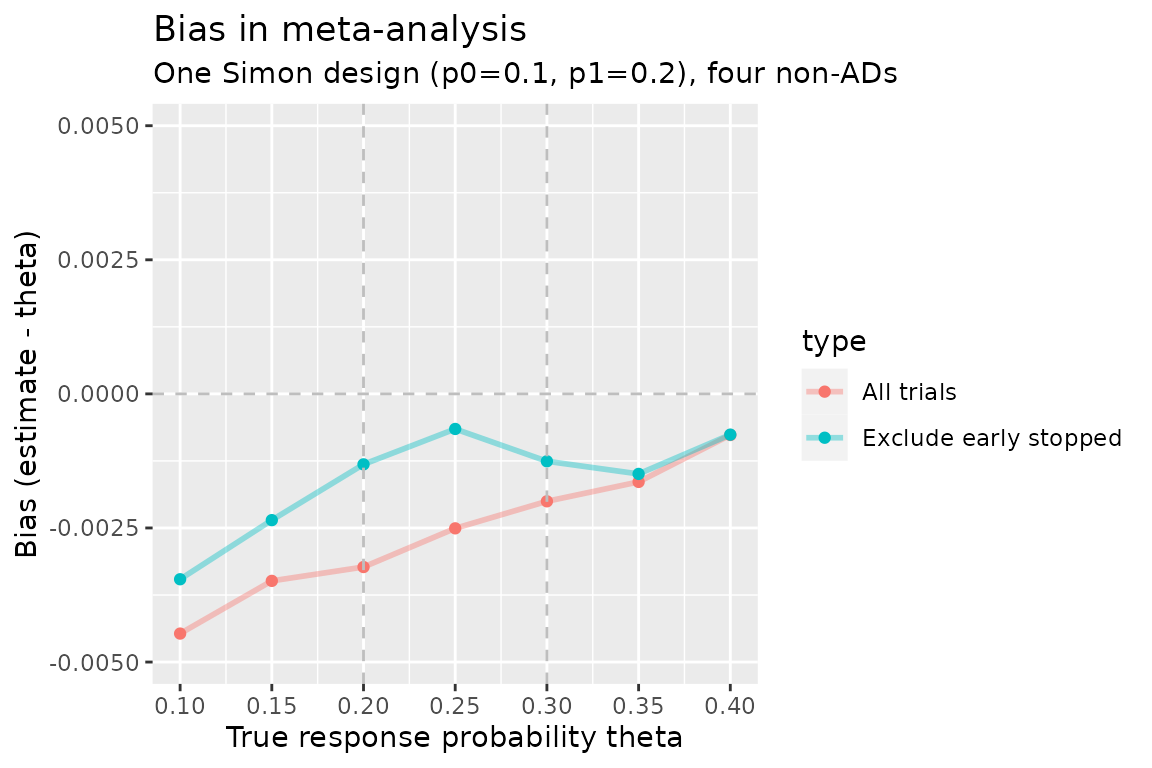
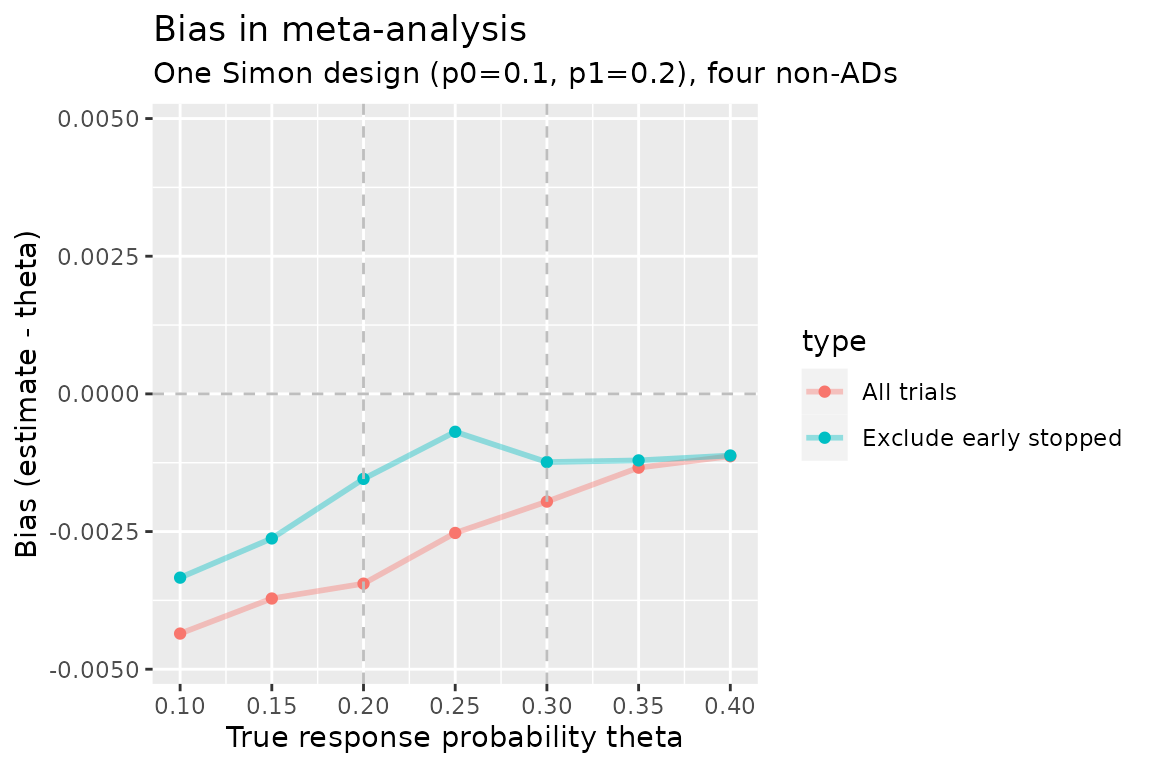
Built site for pwb: 0.0.0.9000@0b7e44e

diff --git a/articles/MA_general.html b/articles/MA_general.html
@@ -1,0 +1,145 @@
+<!DOCTYPE html>
+<!-- Generated by pkgdown: do not edit by hand --><html lang="en">
+<head>
+<meta http-equiv="Content-Type" content="text/html; charset=UTF-8">
+<meta charset="utf-8">
+<meta http-equiv="X-UA-Compatible" content="IE=edge">
+<meta name="viewport" content="width=device-width, initial-scale=1, shrink-to-fit=no">
+<meta name="description" content="pwb">
+<title>Meta-analysis: general • pwb</title>
+<script src="../deps/jquery-3.6.0/jquery-3.6.0.min.js"></script><meta name="viewport" content="width=device-width, initial-scale=1, shrink-to-fit=no">
+<link href="../deps/bootstrap-5.1.0/bootstrap.min.css" rel="stylesheet">
+<script src="../deps/bootstrap-5.1.0/bootstrap.bundle.min.js"></script><!-- Font Awesome icons --><link rel="stylesheet" href="https://cdnjs.cloudflare.com/ajax/libs/font-awesome/5.12.1/css/all.min.css" integrity="sha256-mmgLkCYLUQbXn0B1SRqzHar6dCnv9oZFPEC1g1cwlkk=" crossorigin="anonymous">
+<link rel="stylesheet" href="https://cdnjs.cloudflare.com/ajax/libs/font-awesome/5.12.1/css/v4-shims.min.css" integrity="sha256-wZjR52fzng1pJHwx4aV2AO3yyTOXrcDW7jBpJtTwVxw=" crossorigin="anonymous">
+<!-- bootstrap-toc --><script src="https://cdn.rawgit.com/afeld/bootstrap-toc/v1.0.1/dist/bootstrap-toc.min.js"></script><!-- headroom.js --><script src="https://cdnjs.cloudflare.com/ajax/libs/headroom/0.11.0/headroom.min.js" integrity="sha256-AsUX4SJE1+yuDu5+mAVzJbuYNPHj/WroHuZ8Ir/CkE0=" crossorigin="anonymous"></script><script src="https://cdnjs.cloudflare.com/ajax/libs/headroom/0.11.0/jQuery.headroom.min.js" integrity="sha256-ZX/yNShbjqsohH1k95liqY9Gd8uOiE1S4vZc+9KQ1K4=" crossorigin="anonymous"></script><!-- clipboard.js --><script src="https://cdnjs.cloudflare.com/ajax/libs/clipboard.js/2.0.6/clipboard.min.js" integrity="sha256-inc5kl9MA1hkeYUt+EC3BhlIgyp/2jDIyBLS6k3UxPI=" crossorigin="anonymous"></script><!-- search --><script src="https://cdnjs.cloudflare.com/ajax/libs/fuse.js/6.4.6/fuse.js" integrity="sha512-zv6Ywkjyktsohkbp9bb45V6tEMoWhzFzXis+LrMehmJZZSys19Yxf1dopHx7WzIKxr5tK2dVcYmaCk2uqdjF4A==" crossorigin="anonymous"></script><script src="https://cdnjs.cloudflare.com/ajax/libs/autocomplete.js/0.38.0/autocomplete.jquery.min.js" integrity="sha512-GU9ayf+66Xx2TmpxqJpliWbT5PiGYxpaG8rfnBEk1LL8l1KGkRShhngwdXK1UgqhAzWpZHSiYPc09/NwDQIGyg==" crossorigin="anonymous"></script><script src="https://cdnjs.cloudflare.com/ajax/libs/mark.js/8.11.1/mark.min.js" integrity="sha512-5CYOlHXGh6QpOFA/TeTylKLWfB3ftPsde7AnmhuitiTX4K5SqCLBeKro6sPS8ilsz1Q4NRx3v8Ko2IBiszzdww==" crossorigin="anonymous"></script><!-- pkgdown --><script src="../pkgdown.js"></script><meta property="og:title" content="Meta-analysis: general">
+<meta property="og:description" content="pwb">
+<!-- mathjax --><script src="https://cdnjs.cloudflare.com/ajax/libs/mathjax/2.7.5/MathJax.js" integrity="sha256-nvJJv9wWKEm88qvoQl9ekL2J+k/RWIsaSScxxlsrv8k=" crossorigin="anonymous"></script><script src="https://cdnjs.cloudflare.com/ajax/libs/mathjax/2.7.5/config/TeX-AMS-MML_HTMLorMML.js" integrity="sha256-84DKXVJXs0/F8OTMzX4UR909+jtl4G7SPypPavF+GfA=" crossorigin="anonymous"></script><!--[if lt IE 9]>
+<script src="https://oss.maxcdn.com/html5shiv/3.7.3/html5shiv.min.js"></script>
+<script src="https://oss.maxcdn.com/respond/1.4.2/respond.min.js"></script>
+<![endif]-->
+</head>
+<body>
+    <a href="#main" class="visually-hidden-focusable">Skip to contents</a>
+    
+
+    <nav class="navbar fixed-top navbar-light navbar-expand-lg bg-light"><div class="container">
+    
+    <a class="navbar-brand me-2" href="../index.html">pwb</a>
+
+    <small class="nav-text text-muted me-auto" data-bs-toggle="tooltip" data-bs-placement="bottom" title="">0.0.0.9000</small>
+
+    
+    <button class="navbar-toggler" type="button" data-bs-toggle="collapse" data-bs-target="#navbar" aria-controls="navbar" aria-expanded="false" aria-label="Toggle navigation">
+      <span class="navbar-toggler-icon"></span>
+    </button>
+
+    <div id="navbar" class="collapse navbar-collapse ms-3">
+      <ul class="navbar-nav me-auto">
+<li class="nav-item">
+  <a class="nav-link" href="../reference/index.html">Reference</a>
+</li>
+<li class="active nav-item dropdown">
+  <a href="#" class="nav-link dropdown-toggle" data-bs-toggle="dropdown" role="button" aria-expanded="false" aria-haspopup="true" id="dropdown-articles">Articles</a>
+  <div class="dropdown-menu" aria-labelledby="dropdown-articles">
+    <a class="dropdown-item" href="../articles/GS.html">GS</a>
+    <a class="dropdown-item" href="../articles/MA_general.html">Meta-analysis: general</a>
+    <a class="dropdown-item" href="../articles/MA_simon.html">Meta-analysis: Simon design</a>
+    <a class="dropdown-item" href="../articles/Non-adaptive_designs.html">Non-adaptive designs</a>
+    <a class="dropdown-item" href="../articles/RPW.html">RPW</a>
+    <a class="dropdown-item" href="../articles/simon.html">Simon design: simulation study</a>
+    <a class="dropdown-item" href="../articles/two_arm_two_stage_example.html">Two-arm two-stage: example</a>
+  </div>
+</li>
+      </ul>
+<form class="form-inline my-2 my-lg-0" role="search">
+        <input type="search" class="form-control me-sm-2" aria-label="Toggle navigation" name="search-input" data-search-index="../search.json" id="search-input" placeholder="Search for" autocomplete="off">
+</form>
+
+      <ul class="navbar-nav"></ul>
+</div>
+
+    
+  </div>
+</nav><div class="container template-article">
+
+
+
+<script src="MA_general_files/accessible-code-block-0.0.1/empty-anchor.js"></script><div class="row">
+  <main id="main"><div class="page-header">
+      <img src="" class="logo" alt=""><h1>Meta-analysis: general</h1>
+            
+      
+      
+      <div class="d-none name"><code>MA_general.Rmd</code></div>
+    </div>
+
+    
+    
+<div class="section level2">
+<h2 id="meta-analysis-with-no-adaptive-designs">Meta-analysis with no adaptive designs<a class="anchor" aria-label="anchor" href="#meta-analysis-with-no-adaptive-designs"></a>
+</h2>
+<p>Consider a meta-analysis comprised of <em>n.studies</em> binary outcome trials, all with sample size <em>N</em>. Examine a range of true response probabilities <em>theta</em>:</p>
+<div class="sourceCode" id="cb1"><pre class="downlit sourceCode r">
+<code class="sourceCode R"><span class="co"># Simulate the trials:</span>
+<span class="va">nsims</span> <span class="op">&lt;-</span> <span class="fl">100000</span>
+<span class="va">theta.MA</span> <span class="op">&lt;-</span> <span class="fu"><a href="https://rdrr.io/r/base/seq.html" class="external-link">seq</a></span><span class="op">(</span><span class="fl">0.1</span>, <span class="fl">0.9</span>, <span class="fl">0.1</span><span class="op">)</span>
+<span class="va">bias</span> <span class="op">&lt;-</span> <span class="fu"><a href="https://rdrr.io/r/base/rep.html" class="external-link">rep</a></span><span class="op">(</span><span class="cn">NA</span>, <span class="fu"><a href="https://rdrr.io/r/base/length.html" class="external-link">length</a></span><span class="op">(</span><span class="va">theta.MA</span><span class="op">)</span><span class="op">)</span>
+<span class="va">mean.se</span> <span class="op">&lt;-</span> <span class="fu"><a href="https://rdrr.io/r/base/rep.html" class="external-link">rep</a></span><span class="op">(</span><span class="cn">NA</span>, <span class="fu"><a href="https://rdrr.io/r/base/length.html" class="external-link">length</a></span><span class="op">(</span><span class="va">theta.MA</span><span class="op">)</span><span class="op">)</span>
+
+<span class="kw">for</span><span class="op">(</span><span class="va">i</span> <span class="kw">in</span> <span class="fl">1</span><span class="op">:</span><span class="fu"><a href="https://rdrr.io/r/base/length.html" class="external-link">length</a></span><span class="op">(</span><span class="va">theta.MA</span><span class="op">)</span><span class="op">)</span><span class="op">{</span>
+  <span class="va">MA.results</span> <span class="op">&lt;-</span> <span class="fu">pwb</span><span class="fu">::</span><span class="fu"><a href="../reference/simMeta.html">simMeta</a></span><span class="op">(</span>N<span class="op">=</span><span class="fl">100</span>, theta<span class="op">=</span><span class="va">theta.MA</span><span class="op">[</span><span class="va">i</span><span class="op">]</span>, n.studies<span class="op">=</span><span class="fl">5</span>, nsims<span class="op">=</span><span class="va">nsims</span><span class="op">)</span>
+  <span class="va">wtdmeans</span> <span class="op">&lt;-</span> <span class="fu"><a href="https://rdrr.io/r/base/rep.html" class="external-link">rep</a></span><span class="op">(</span><span class="cn">NA</span>, <span class="va">nsims</span><span class="op">)</span>
+  <span class="va">ses</span> <span class="op">&lt;-</span> <span class="fu"><a href="https://rdrr.io/r/base/rep.html" class="external-link">rep</a></span><span class="op">(</span><span class="cn">NA</span>, <span class="va">nsims</span><span class="op">)</span>
+  <span class="kw">for</span><span class="op">(</span><span class="va">j</span> <span class="kw">in</span> <span class="fl">1</span><span class="op">:</span><span class="va">nsims</span><span class="op">)</span><span class="op">{</span>
+    <span class="va">var.studies</span> <span class="op">&lt;-</span> <span class="va">MA.results</span><span class="op">$</span><span class="va">se</span><span class="op">[</span><span class="va">j</span>, <span class="op">]</span><span class="op">^</span><span class="fl">2</span>
+    <span class="va">wi</span> <span class="op">&lt;-</span> <span class="fl">1</span><span class="op">/</span><span class="va">var.studies</span>
+    <span class="va">wtdmeans</span><span class="op">[</span><span class="va">j</span><span class="op">]</span> <span class="op">&lt;-</span> <span class="fu"><a href="https://rdrr.io/r/stats/weighted.mean.html" class="external-link">weighted.mean</a></span><span class="op">(</span>x<span class="op">=</span><span class="va">MA.results</span><span class="op">$</span><span class="va">theta.hat</span><span class="op">[</span><span class="va">j</span>, <span class="op">]</span>, w<span class="op">=</span><span class="va">wi</span><span class="op">)</span>
+    <span class="va">var.ma</span> <span class="op">&lt;-</span> <span class="fl">1</span><span class="op">/</span><span class="fu"><a href="https://rdrr.io/r/base/sum.html" class="external-link">sum</a></span><span class="op">(</span><span class="va">wi</span><span class="op">)</span>
+    <span class="va">ses</span><span class="op">[</span><span class="va">j</span><span class="op">]</span> <span class="op">&lt;-</span> <span class="fu"><a href="https://rdrr.io/r/base/MathFun.html" class="external-link">sqrt</a></span><span class="op">(</span><span class="va">var.ma</span><span class="op">)</span>
+  <span class="op">}</span>
+  <span class="va">bias</span><span class="op">[</span><span class="va">i</span><span class="op">]</span> <span class="op">&lt;-</span> <span class="fu"><a href="https://rdrr.io/r/base/mean.html" class="external-link">mean</a></span><span class="op">(</span><span class="va">wtdmeans</span><span class="op">-</span><span class="va">theta.MA</span><span class="op">[</span><span class="va">i</span><span class="op">]</span><span class="op">)</span>
+  <span class="va">mean.se</span><span class="op">[</span><span class="va">i</span><span class="op">]</span> <span class="op">&lt;-</span> <span class="fu"><a href="https://rdrr.io/r/base/mean.html" class="external-link">mean</a></span><span class="op">(</span><span class="va">ses</span><span class="op">)</span>
+<span class="op">}</span>
+<span class="va">bias.df</span> <span class="op">&lt;-</span> <span class="fu"><a href="https://rdrr.io/r/base/data.frame.html" class="external-link">data.frame</a></span><span class="op">(</span>bias<span class="op">=</span><span class="va">bias</span>,
+                      se<span class="op">=</span><span class="va">mean.se</span>,
+                      lower<span class="op">=</span><span class="va">bias</span><span class="op">-</span><span class="fl">1.95</span><span class="op">*</span><span class="va">mean.se</span>,
+                      upper<span class="op">=</span><span class="va">bias</span><span class="op">+</span><span class="fl">1.95</span><span class="op">*</span><span class="va">mean.se</span>,
+                      theta<span class="op">=</span><span class="va">theta.MA</span><span class="op">)</span></code></pre></div>
+<div class="sourceCode" id="cb2"><pre class="downlit sourceCode r">
+<code class="sourceCode R"><span class="fu"><a href="https://ggplot2.tidyverse.org/reference/ggplot.html" class="external-link">ggplot</a></span><span class="op">(</span>data<span class="op">=</span><span class="va">bias.df</span>, mapping<span class="op">=</span><span class="fu"><a href="https://ggplot2.tidyverse.org/reference/aes.html" class="external-link">aes</a></span><span class="op">(</span>x<span class="op">=</span><span class="va">theta</span>, y<span class="op">=</span><span class="va">bias</span><span class="op">)</span><span class="op">)</span><span class="op">+</span>
+ <span class="fu"><a href="https://ggplot2.tidyverse.org/reference/geom_path.html" class="external-link">geom_line</a></span><span class="op">(</span><span class="op">)</span><span class="op">+</span>
+ <span class="fu"><a href="https://ggplot2.tidyverse.org/reference/geom_point.html" class="external-link">geom_point</a></span><span class="op">(</span><span class="op">)</span><span class="op">+</span>
+  <span class="fu"><a href="https://ggplot2.tidyverse.org/reference/geom_ribbon.html" class="external-link">geom_ribbon</a></span><span class="op">(</span><span class="fu"><a href="https://ggplot2.tidyverse.org/reference/aes.html" class="external-link">aes</a></span><span class="op">(</span>x<span class="op">=</span><span class="va">theta</span>, ymin<span class="op">=</span><span class="va">lower</span>, ymax<span class="op">=</span><span class="va">upper</span><span class="op">)</span>, fill<span class="op">=</span><span class="st">"red"</span>, alpha<span class="op">=</span><span class="fl">0.1</span><span class="op">)</span><span class="op">+</span>
+  <span class="fu"><a href="https://ggplot2.tidyverse.org/reference/labs.html" class="external-link">labs</a></span><span class="op">(</span>x<span class="op">=</span><span class="st">"True response probability theta"</span>,
+       y<span class="op">=</span><span class="st">"Bias (estimate - theta)"</span>,
+      title<span class="op">=</span><span class="st">"Bias in meta-analysis"</span>,
+       subtitle<span class="op">=</span><span class="st">"No adaptive designs"</span><span class="op">)</span><span class="op">+</span>
+  <span class="fu"><a href="https://ggplot2.tidyverse.org/reference/geom_abline.html" class="external-link">geom_hline</a></span><span class="op">(</span><span class="fu"><a href="https://ggplot2.tidyverse.org/reference/aes.html" class="external-link">aes</a></span><span class="op">(</span>yintercept<span class="op">=</span><span class="fl">0</span><span class="op">)</span>, col<span class="op">=</span><span class="st">"grey"</span>, linetype<span class="op">=</span><span class="st">"dashed"</span><span class="op">)</span><span class="op">+</span>
+  <span class="fu"><a href="https://ggplot2.tidyverse.org/reference/lims.html" class="external-link">ylim</a></span><span class="op">(</span><span class="fu"><a href="https://rdrr.io/r/base/Extremes.html" class="external-link">max</a></span><span class="op">(</span><span class="fu"><a href="https://rdrr.io/r/base/MathFun.html" class="external-link">abs</a></span><span class="op">(</span><span class="fu"><a href="https://rdrr.io/r/base/c.html" class="external-link">c</a></span><span class="op">(</span><span class="va">bias.df</span><span class="op">$</span><span class="va">lower</span>, <span class="va">bias.df</span><span class="op">$</span><span class="va">upper</span><span class="op">)</span><span class="op">)</span><span class="op">)</span> <span class="op">*</span> <span class="fu"><a href="https://rdrr.io/r/base/c.html" class="external-link">c</a></span><span class="op">(</span><span class="op">-</span><span class="fl">1</span>, <span class="fl">1</span><span class="op">)</span> <span class="op">)</span><span class="op">+</span>
+  <span class="fu"><a href="https://ggplot2.tidyverse.org/reference/scale_continuous.html" class="external-link">scale_x_continuous</a></span><span class="op">(</span>breaks<span class="op">=</span><span class="va">theta.MA</span><span class="op">)</span></code></pre></div>
+<p><img src="MA_general_files/figure-html/plot%20bias-1.png" width="700"></p>
+</div>
+  </main>
+</div>
+
+
+
+    <footer><div class="pkgdown-footer-left">
+  <p></p>
+<p>Developed by Martin Law, David Robertson.</p>
+</div>
+
+<div class="pkgdown-footer-right">
+  <p></p>
+<p>Site built with <a href="https://pkgdown.r-lib.org/" class="external-link">pkgdown</a> 2.0.2.</p>
+</div>
+
+    </footer>
+</div>
+
+  
+
+  
+
+  </body>
+</html>

diff --git a/reference/simMeta.html b/reference/simMeta.html
@@ -1,5 +1,5 @@
 <!DOCTYPE html>
-<!-- Generated by pkgdown: do not edit by hand --><html lang="en"><head><meta http-equiv="Content-Type" content="text/html; charset=UTF-8"><meta charset="utf-8"><meta http-equiv="X-UA-Compatible" content="IE=edge"><meta name="viewport" content="width=device-width, initial-scale=1, shrink-to-fit=no"><meta name="description" content="Simulates binary data for a meta-analysis"><title>Meta-analysis simulation (binary outcome) — simMeta • pwb</title><script src="../deps/jquery-3.6.0/jquery-3.6.0.min.js"></script><meta name="viewport" content="width=device-width, initial-scale=1, shrink-to-fit=no"><link href="../deps/bootstrap-5.1.0/bootstrap.min.css" rel="stylesheet"><script src="../deps/bootstrap-5.1.0/bootstrap.bundle.min.js"></script><!-- Font Awesome icons --><link rel="stylesheet" href="https://cdnjs.cloudflare.com/ajax/libs/font-awesome/5.12.1/css/all.min.css" integrity="sha256-mmgLkCYLUQbXn0B1SRqzHar6dCnv9oZFPEC1g1cwlkk=" crossorigin="anonymous"><link rel="stylesheet" href="https://cdnjs.cloudflare.com/ajax/libs/font-awesome/5.12.1/css/v4-shims.min.css" integrity="sha256-wZjR52fzng1pJHwx4aV2AO3yyTOXrcDW7jBpJtTwVxw=" crossorigin="anonymous"><!-- bootstrap-toc --><script src="https://cdn.rawgit.com/afeld/bootstrap-toc/v1.0.1/dist/bootstrap-toc.min.js"></script><!-- headroom.js --><script src="https://cdnjs.cloudflare.com/ajax/libs/headroom/0.11.0/headroom.min.js" integrity="sha256-AsUX4SJE1+yuDu5+mAVzJbuYNPHj/WroHuZ8Ir/CkE0=" crossorigin="anonymous"></script><script src="https://cdnjs.cloudflare.com/ajax/libs/headroom/0.11.0/jQuery.headroom.min.js" integrity="sha256-ZX/yNShbjqsohH1k95liqY9Gd8uOiE1S4vZc+9KQ1K4=" crossorigin="anonymous"></script><!-- clipboard.js --><script src="https://cdnjs.cloudflare.com/ajax/libs/clipboard.js/2.0.6/clipboard.min.js" integrity="sha256-inc5kl9MA1hkeYUt+EC3BhlIgyp/2jDIyBLS6k3UxPI=" crossorigin="anonymous"></script><!-- search --><script src="https://cdnjs.cloudflare.com/ajax/libs/fuse.js/6.4.6/fuse.js" integrity="sha512-zv6Ywkjyktsohkbp9bb45V6tEMoWhzFzXis+LrMehmJZZSys19Yxf1dopHx7WzIKxr5tK2dVcYmaCk2uqdjF4A==" crossorigin="anonymous"></script><script src="https://cdnjs.cloudflare.com/ajax/libs/autocomplete.js/0.38.0/autocomplete.jquery.min.js" integrity="sha512-GU9ayf+66Xx2TmpxqJpliWbT5PiGYxpaG8rfnBEk1LL8l1KGkRShhngwdXK1UgqhAzWpZHSiYPc09/NwDQIGyg==" crossorigin="anonymous"></script><script src="https://cdnjs.cloudflare.com/ajax/libs/mark.js/8.11.1/mark.min.js" integrity="sha512-5CYOlHXGh6QpOFA/TeTylKLWfB3ftPsde7AnmhuitiTX4K5SqCLBeKro6sPS8ilsz1Q4NRx3v8Ko2IBiszzdww==" crossorigin="anonymous"></script><!-- pkgdown --><script src="../pkgdown.js"></script><meta property="og:title" content="Meta-analysis simulation (binary outcome) — simMeta"><meta property="og:description" content="Simulates binary data for a meta-analysis"><!-- mathjax --><script src="https://cdnjs.cloudflare.com/ajax/libs/mathjax/2.7.5/MathJax.js" integrity="sha256-nvJJv9wWKEm88qvoQl9ekL2J+k/RWIsaSScxxlsrv8k=" crossorigin="anonymous"></script><script src="https://cdnjs.cloudflare.com/ajax/libs/mathjax/2.7.5/config/TeX-AMS-MML_HTMLorMML.js" integrity="sha256-84DKXVJXs0/F8OTMzX4UR909+jtl4G7SPypPavF+GfA=" crossorigin="anonymous"></script><!--[if lt IE 9]>
+<!-- Generated by pkgdown: do not edit by hand --><html lang="en"><head><meta http-equiv="Content-Type" content="text/html; charset=UTF-8"><meta charset="utf-8"><meta http-equiv="X-UA-Compatible" content="IE=edge"><meta name="viewport" content="width=device-width, initial-scale=1, shrink-to-fit=no"><meta name="description" content="Simulates binary data for a meta-analysis."><title>Meta-analysis simulation (binary outcome) — simMeta • pwb</title><script src="../deps/jquery-3.6.0/jquery-3.6.0.min.js"></script><meta name="viewport" content="width=device-width, initial-scale=1, shrink-to-fit=no"><link href="../deps/bootstrap-5.1.0/bootstrap.min.css" rel="stylesheet"><script src="../deps/bootstrap-5.1.0/bootstrap.bundle.min.js"></script><!-- Font Awesome icons --><link rel="stylesheet" href="https://cdnjs.cloudflare.com/ajax/libs/font-awesome/5.12.1/css/all.min.css" integrity="sha256-mmgLkCYLUQbXn0B1SRqzHar6dCnv9oZFPEC1g1cwlkk=" crossorigin="anonymous"><link rel="stylesheet" href="https://cdnjs.cloudflare.com/ajax/libs/font-awesome/5.12.1/css/v4-shims.min.css" integrity="sha256-wZjR52fzng1pJHwx4aV2AO3yyTOXrcDW7jBpJtTwVxw=" crossorigin="anonymous"><!-- bootstrap-toc --><script src="https://cdn.rawgit.com/afeld/bootstrap-toc/v1.0.1/dist/bootstrap-toc.min.js"></script><!-- headroom.js --><script src="https://cdnjs.cloudflare.com/ajax/libs/headroom/0.11.0/headroom.min.js" integrity="sha256-AsUX4SJE1+yuDu5+mAVzJbuYNPHj/WroHuZ8Ir/CkE0=" crossorigin="anonymous"></script><script src="https://cdnjs.cloudflare.com/ajax/libs/headroom/0.11.0/jQuery.headroom.min.js" integrity="sha256-ZX/yNShbjqsohH1k95liqY9Gd8uOiE1S4vZc+9KQ1K4=" crossorigin="anonymous"></script><!-- clipboard.js --><script src="https://cdnjs.cloudflare.com/ajax/libs/clipboard.js/2.0.6/clipboard.min.js" integrity="sha256-inc5kl9MA1hkeYUt+EC3BhlIgyp/2jDIyBLS6k3UxPI=" crossorigin="anonymous"></script><!-- search --><script src="https://cdnjs.cloudflare.com/ajax/libs/fuse.js/6.4.6/fuse.js" integrity="sha512-zv6Ywkjyktsohkbp9bb45V6tEMoWhzFzXis+LrMehmJZZSys19Yxf1dopHx7WzIKxr5tK2dVcYmaCk2uqdjF4A==" crossorigin="anonymous"></script><script src="https://cdnjs.cloudflare.com/ajax/libs/autocomplete.js/0.38.0/autocomplete.jquery.min.js" integrity="sha512-GU9ayf+66Xx2TmpxqJpliWbT5PiGYxpaG8rfnBEk1LL8l1KGkRShhngwdXK1UgqhAzWpZHSiYPc09/NwDQIGyg==" crossorigin="anonymous"></script><script src="https://cdnjs.cloudflare.com/ajax/libs/mark.js/8.11.1/mark.min.js" integrity="sha512-5CYOlHXGh6QpOFA/TeTylKLWfB3ftPsde7AnmhuitiTX4K5SqCLBeKro6sPS8ilsz1Q4NRx3v8Ko2IBiszzdww==" crossorigin="anonymous"></script><!-- pkgdown --><script src="../pkgdown.js"></script><meta property="og:title" content="Meta-analysis simulation (binary outcome) — simMeta"><meta property="og:description" content="Simulates binary data for a meta-analysis."><!-- mathjax --><script src="https://cdnjs.cloudflare.com/ajax/libs/mathjax/2.7.5/MathJax.js" integrity="sha256-nvJJv9wWKEm88qvoQl9ekL2J+k/RWIsaSScxxlsrv8k=" crossorigin="anonymous"></script><script src="https://cdnjs.cloudflare.com/ajax/libs/mathjax/2.7.5/config/TeX-AMS-MML_HTMLorMML.js" integrity="sha256-84DKXVJXs0/F8OTMzX4UR909+jtl4G7SPypPavF+GfA=" crossorigin="anonymous"></script><!--[if lt IE 9]>
 <script src="https://oss.maxcdn.com/html5shiv/3.7.3/html5shiv.min.js"></script>
 <script src="https://oss.maxcdn.com/respond/1.4.2/respond.min.js"></script>
 <![endif]--></head><body>
@@ -25,6 +25,7 @@
   <a href="#" class="nav-link dropdown-toggle" data-bs-toggle="dropdown" role="button" aria-expanded="false" aria-haspopup="true" id="dropdown-articles">Articles</a>
   <div class="dropdown-menu" aria-labelledby="dropdown-articles">
     <a class="dropdown-item" href="../articles/GS.html">GS</a>
+    <a class="dropdown-item" href="../articles/MA_general.html">Meta-analysis: general</a>
     <a class="dropdown-item" href="../articles/MA_simon.html">Meta-analysis: Simon design</a>
     <a class="dropdown-item" href="../articles/Non-adaptive_designs.html">Non-adaptive designs</a>
     <a class="dropdown-item" href="../articles/RPW.html">RPW</a>
@@ -48,7 +49,7 @@
     </div>
 
     <div class="ref-description section level2">
-    <p>Simulates binary data for a meta-analysis</p>
+    <p>Simulates binary data for a meta-analysis.</p>
     </div>
 
     <div class="section level2">

diff --git a/articles/GS.html b/articles/GS.html
@@ -42,6 +42,7 @@
   <a href="#" class="nav-link dropdown-toggle" data-bs-toggle="dropdown" role="button" aria-expanded="false" aria-haspopup="true" id="dropdown-articles">Articles</a>
   <div class="dropdown-menu" aria-labelledby="dropdown-articles">
     <a class="dropdown-item" href="../articles/GS.html">GS</a>
+    <a class="dropdown-item" href="../articles/MA_general.html">Meta-analysis: general</a>
     <a class="dropdown-item" href="../articles/MA_simon.html">Meta-analysis: Simon design</a>
     <a class="dropdown-item" href="../articles/Non-adaptive_designs.html">Non-adaptive designs</a>
     <a class="dropdown-item" href="../articles/RPW.html">RPW</a>
@@ -100,10 +101,10 @@
                      nsims<span class="op">=</span><span class="va">nsims</span><span class="op">)</span>
   <span class="va">single.GS</span><span class="op">$</span><span class="va">ests</span><span class="op">[</span>, <span class="fl">1</span><span class="op">:</span><span class="fl">5</span><span class="op">]</span>
 <span class="co">#&gt;                          nsims    bias mean.SE emp.SE theta</span>
-<span class="co">#&gt; Stopped early            39159 -0.0450  0.0455 0.0271   0.5</span>
-<span class="co">#&gt; Complete                 60841  0.0246  0.0421 0.0299   0.5</span>
-<span class="co">#&gt; All                     100000 -0.0026  0.0434 0.0446   0.5</span>
-<span class="co">#&gt; All (precision-weghted) 100000  0.0000  0.0433     NA   0.5</span>
+<span class="co">#&gt; Stopped early            39572 -0.0453  0.0455 0.0272   0.5</span>
+<span class="co">#&gt; Complete                 60428  0.0246  0.0421 0.0298   0.5</span>
+<span class="co">#&gt; All                     100000 -0.0031  0.0435 0.0447   0.5</span>
+<span class="co">#&gt; All (precision-weghted) 100000 -0.0004  0.0433     NA   0.5</span>
   <span class="fu"><a href="https://rdrr.io/r/base/Round.html" class="external-link">round</a></span><span class="op">(</span><span class="va">single.GS</span><span class="op">$</span><span class="va">mc.error</span>, <span class="fl">5</span><span class="op">)</span>
 <span class="co">#&gt; [1] 0.00014 0.00010</span></code></pre></div>
 <p>How does bias compare when the true response probability is varied? Find results for a vector of true response probabilities:</p>

diff --git a/articles/MA_simon.html b/articles/MA_simon.html
@@ -42,6 +42,7 @@
   <a href="#" class="nav-link dropdown-toggle" data-bs-toggle="dropdown" role="button" aria-expanded="false" aria-haspopup="true" id="dropdown-articles">Articles</a>
   <div class="dropdown-menu" aria-labelledby="dropdown-articles">
     <a class="dropdown-item" href="../articles/GS.html">GS</a>
+    <a class="dropdown-item" href="../articles/MA_general.html">Meta-analysis: general</a>
     <a class="dropdown-item" href="../articles/MA_simon.html">Meta-analysis: Simon design</a>
     <a class="dropdown-item" href="../articles/Non-adaptive_designs.html">Non-adaptive designs</a>
     <a class="dropdown-item" href="../articles/RPW.html">RPW</a>
@@ -94,8 +95,8 @@
                             n.studies<span class="op">=</span><span class="fl">4</span><span class="op">)</span>
 <span class="va">ma.simon.results</span>
 <span class="co">#&gt;                        reps mean.studies          bias    mean.se theta</span>
-<span class="co">#&gt; All trials            10000       5.0000 -0.0002274129 0.01528855   0.5</span>
-<span class="co">#&gt; Exclude early stopped 10000       4.3042  0.0015561631 0.01598114   0.5</span>
+<span class="co">#&gt; All trials            10000       5.0000 -0.0003663654 0.01516795   0.5</span>
+<span class="co">#&gt; Exclude early stopped 10000       4.3082  0.0013884778 0.01583311   0.5</span>
 <span class="co">#&gt;                                        type</span>
 <span class="co">#&gt; All trials                       All trials</span>
 <span class="co">#&gt; Exclude early stopped Exclude early stopped</span></code></pre></div>

diff --git a/articles/index.html b/articles/index.html
@@ -25,6 +25,7 @@
   <a href="#" class="nav-link dropdown-toggle" data-bs-toggle="dropdown" role="button" aria-expanded="false" aria-haspopup="true" id="dropdown-articles">Articles</a>
   <div class="dropdown-menu" aria-labelledby="dropdown-articles">
     <a class="dropdown-item" href="../articles/GS.html">GS</a>
+    <a class="dropdown-item" href="../articles/MA_general.html">Meta-analysis: general</a>
     <a class="dropdown-item" href="../articles/MA_simon.html">Meta-analysis: Simon design</a>
     <a class="dropdown-item" href="../articles/Non-adaptive_designs.html">Non-adaptive designs</a>
     <a class="dropdown-item" href="../articles/RPW.html">RPW</a>
@@ -50,6 +51,8 @@
       <p class="section-desc"></p>
 
       <dl><dt><a href="GS.html">GS</a></dt>
+        <dd>
+        </dd><dt><a href="MA_general.html">Meta-analysis: general</a></dt>
         <dd>
         </dd><dt><a href="MA_simon.html">Meta-analysis: Simon design</a></dt>
         <dd>

diff --git a/404.html b/404.html
@@ -40,6 +40,7 @@
   <a href="https://martinlaw.github.io/pwb/#" class="nav-link dropdown-toggle" data-bs-toggle="dropdown" role="button" aria-expanded="false" aria-haspopup="true" id="dropdown-articles">Articles</a>
   <div class="dropdown-menu" aria-labelledby="dropdown-articles">
     <a class="dropdown-item" href="https://martinlaw.github.io/pwb/articles/GS.html">GS</a>
+    <a class="dropdown-item" href="https://martinlaw.github.io/pwb/articles/MA_general.html">Meta-analysis: general</a>
     <a class="dropdown-item" href="https://martinlaw.github.io/pwb/articles/MA_simon.html">Meta-analysis: Simon design</a>
     <a class="dropdown-item" href="https://martinlaw.github.io/pwb/articles/Non-adaptive_designs.html">Non-adaptive designs</a>
     <a class="dropdown-item" href="https://martinlaw.github.io/pwb/articles/RPW.html">RPW</a>

diff --git a/articles/MA_general_files/accessible-code-block-0.0.1/empty-anchor.js b/articles/MA_general_files/accessible-code-block-0.0.1/empty-anchor.js
@@ -1,0 +1,15 @@
+// Hide empty <a> tag within highlighted CodeBlock for screen reader accessibility (see https://github.com/jgm/pandoc/issues/6352#issuecomment-626106786) -->
+// v0.0.1
+// Written by JooYoung Seo (jooyoung@psu.edu) and Atsushi Yasumoto on June 1st, 2020.
+
+document.addEventListener('DOMContentLoaded', function() {
+  const codeList = document.getElementsByClassName("sourceCode");
+  for (var i = 0; i < codeList.length; i++) {
+    var linkList = codeList[i].getElementsByTagName('a');
+    for (var j = 0; j < linkList.length; j++) {
+      if (linkList[j].innerHTML === "") {
+        linkList[j].setAttribute('aria-hidden', 'true');
+      }
+    }
+  }
+});

diff --git a/articles/Non-adaptive_designs.html b/articles/Non-adaptive_designs.html
@@ -42,6 +42,7 @@
   <a href="#" class="nav-link dropdown-toggle" data-bs-toggle="dropdown" role="button" aria-expanded="false" aria-haspopup="true" id="dropdown-articles">Articles</a>
   <div class="dropdown-menu" aria-labelledby="dropdown-articles">
     <a class="dropdown-item" href="../articles/GS.html">GS</a>
+    <a class="dropdown-item" href="../articles/MA_general.html">Meta-analysis: general</a>
     <a class="dropdown-item" href="../articles/MA_simon.html">Meta-analysis: Simon design</a>
     <a class="dropdown-item" href="../articles/Non-adaptive_designs.html">Non-adaptive designs</a>
     <a class="dropdown-item" href="../articles/RPW.html">RPW</a>

diff --git a/articles/RPW.html b/articles/RPW.html
@@ -42,6 +42,7 @@
   <a href="#" class="nav-link dropdown-toggle" data-bs-toggle="dropdown" role="button" aria-expanded="false" aria-haspopup="true" id="dropdown-articles">Articles</a>
   <div class="dropdown-menu" aria-labelledby="dropdown-articles">
     <a class="dropdown-item" href="../articles/GS.html">GS</a>
+    <a class="dropdown-item" href="../articles/MA_general.html">Meta-analysis: general</a>
     <a class="dropdown-item" href="../articles/MA_simon.html">Meta-analysis: Simon design</a>
     <a class="dropdown-item" href="../articles/Non-adaptive_designs.html">Non-adaptive designs</a>
     <a class="dropdown-item" href="../articles/RPW.html">RPW</a>

diff --git a/articles/simon.html b/articles/simon.html
@@ -42,6 +42,7 @@
   <a href="#" class="nav-link dropdown-toggle" data-bs-toggle="dropdown" role="button" aria-expanded="false" aria-haspopup="true" id="dropdown-articles">Articles</a>
   <div class="dropdown-menu" aria-labelledby="dropdown-articles">
     <a class="dropdown-item" href="../articles/GS.html">GS</a>
+    <a class="dropdown-item" href="../articles/MA_general.html">Meta-analysis: general</a>
     <a class="dropdown-item" href="../articles/MA_simon.html">Meta-analysis: Simon design</a>
     <a class="dropdown-item" href="../articles/Non-adaptive_designs.html">Non-adaptive designs</a>
     <a class="dropdown-item" href="../articles/RPW.html">RPW</a>

diff --git a/articles/two_arm_two_stage_example.html b/articles/two_arm_two_stage_example.html
@@ -42,6 +42,7 @@
   <a href="#" class="nav-link dropdown-toggle" data-bs-toggle="dropdown" role="button" aria-expanded="false" aria-haspopup="true" id="dropdown-articles">Articles</a>
   <div class="dropdown-menu" aria-labelledby="dropdown-articles">
     <a class="dropdown-item" href="../articles/GS.html">GS</a>
+    <a class="dropdown-item" href="../articles/MA_general.html">Meta-analysis: general</a>
     <a class="dropdown-item" href="../articles/MA_simon.html">Meta-analysis: Simon design</a>
     <a class="dropdown-item" href="../articles/Non-adaptive_designs.html">Non-adaptive designs</a>
     <a class="dropdown-item" href="../articles/RPW.html">RPW</a>

diff --git a/reference/index.html b/reference/index.html
@@ -25,6 +25,7 @@
   <a href="#" class="nav-link dropdown-toggle" data-bs-toggle="dropdown" role="button" aria-expanded="false" aria-haspopup="true" id="dropdown-articles">Articles</a>
   <div class="dropdown-menu" aria-labelledby="dropdown-articles">
     <a class="dropdown-item" href="../articles/GS.html">GS</a>
+    <a class="dropdown-item" href="../articles/MA_general.html">Meta-analysis: general</a>
     <a class="dropdown-item" href="../articles/MA_simon.html">Meta-analysis: Simon design</a>
     <a class="dropdown-item" href="../articles/Non-adaptive_designs.html">Non-adaptive designs</a>
     <a class="dropdown-item" href="../articles/RPW.html">RPW</a>
